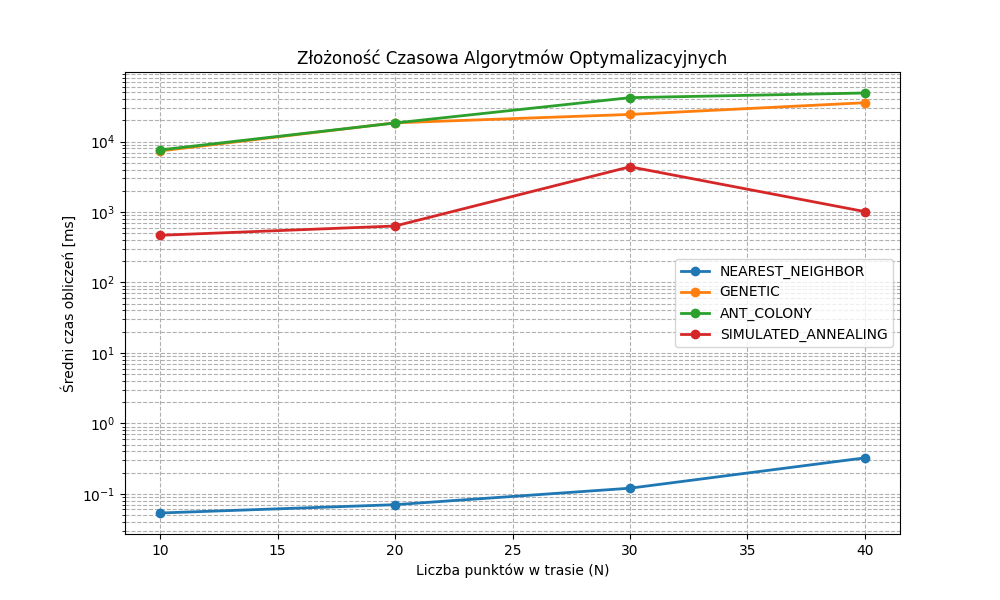
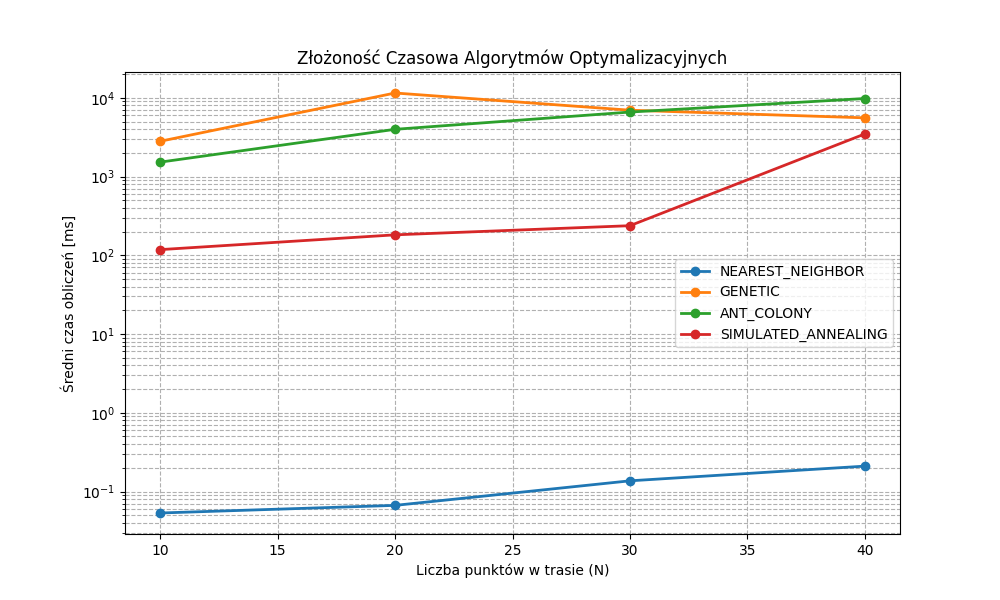
feat: adjust parameters for genetic algorithm, ant colony optimization, and simulated annealing for improved performance

Changed region(s): [[0.093, 0.12, 0.899, 0.51], [0.062, 0.66, 0.899, 0.9], [0.093, 0.54, 0.899, 0.66]]

diff --git a/svc-routing/src/services/genetic.py b/svc-routing/src/services/genetic.py
@@ -27,10 +27,10 @@ def genetic_algorithm(start_idx, points, dist_matrix):
     gene_space = list(range(num_points))
 
     ga_instance = pygad.GA(
-        num_generations=1000,
+        num_generations=400,
         num_parents_mating=100, 
         fitness_func=fitness_func,
-        sol_per_pop=200,
+        sol_per_pop=100,
         num_genes=num_points,
         gene_type=int,
         gene_space=gene_space,

diff --git a/svc-routing/src/services/aco.py b/svc-routing/src/services/aco.py
@@ -14,7 +14,7 @@ def ant_colony_optimization(start_idx, points, dist_matrix):
                 safe_dist_matrix[i][j] = 999999.0
 
     num_ants = 40      
-    num_iterations = 1000
+    num_iterations = 200
     alpha = 1.25
     beta = 5
     evaporation_rate = 0.2

diff --git a/svc-routing/src/services/sa.py b/svc-routing/src/services/sa.py
@@ -31,7 +31,7 @@ def simulated_annealing(start_idx, points, dist_matrix):
     # Hiperparametry chłodzenia
     T = 10000.0
     T_min = 1.0
-    cooling_rate = 0.995
+    cooling_rate = 0.98
     iter_per_temp = 50
 
     # Proces wyżarzania
